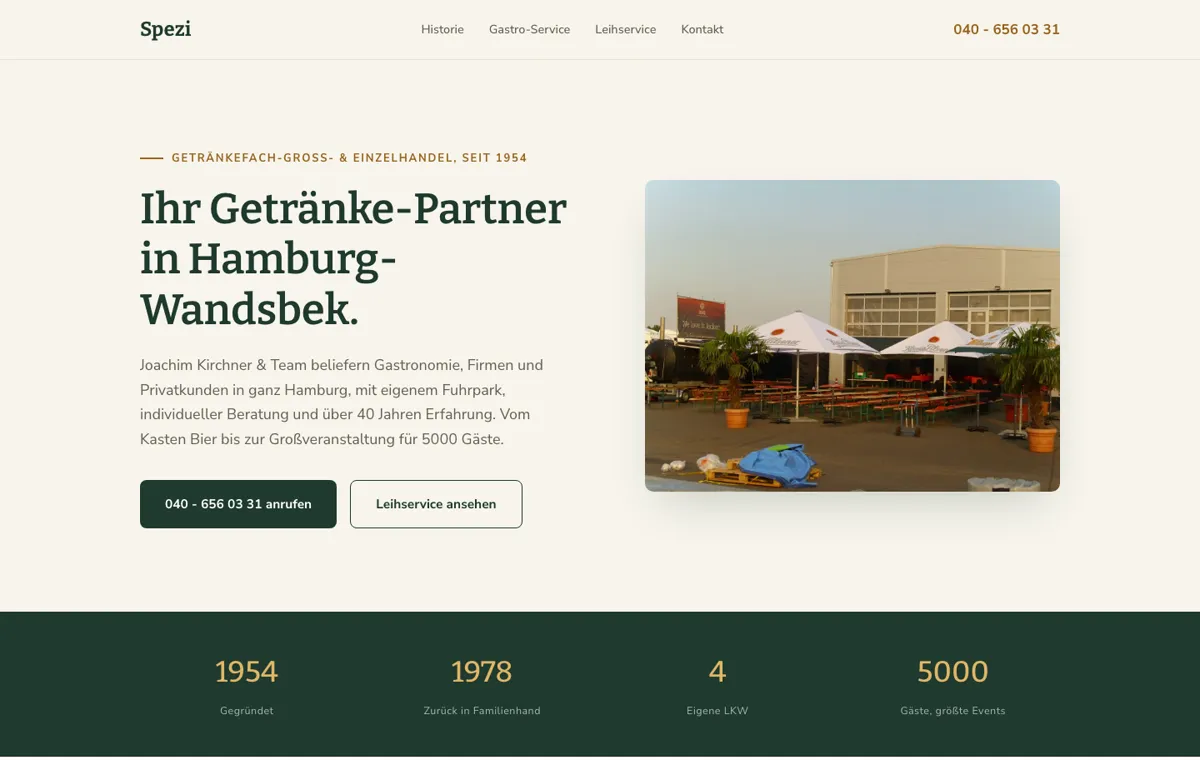
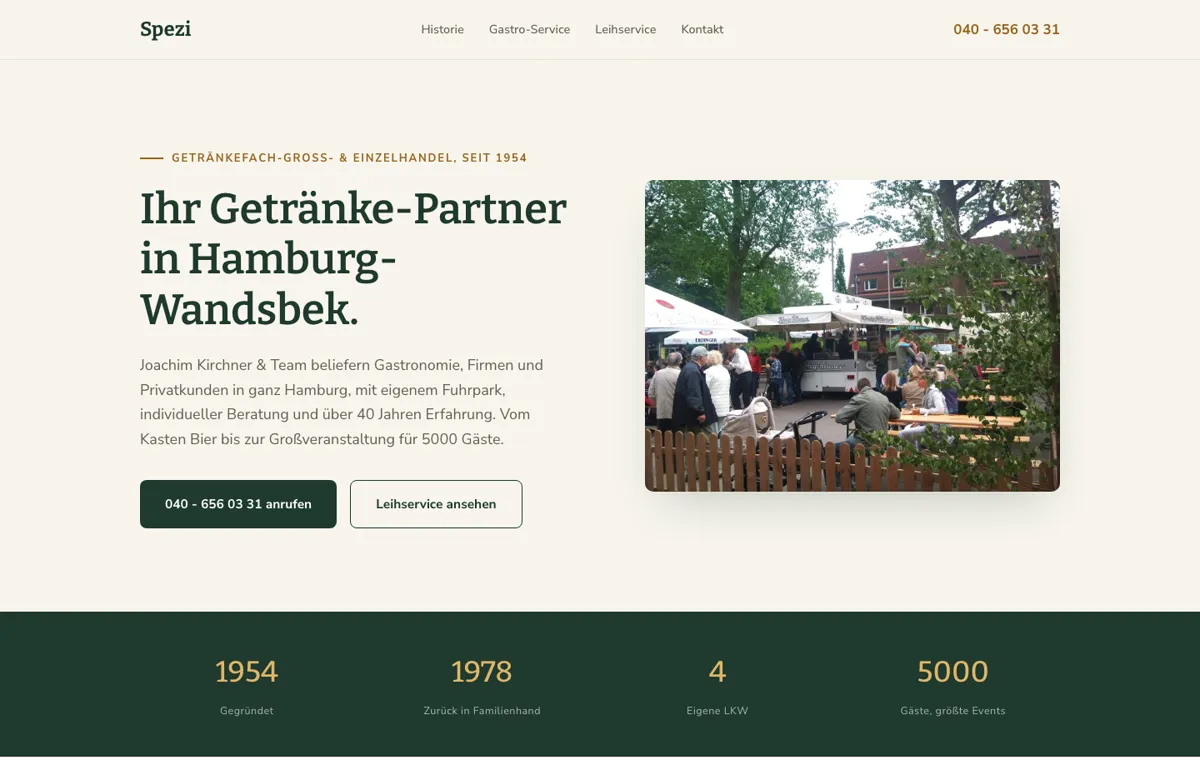
Replace three weak hero photos in the redesign mockups
Getränke Spezi led with an empty yard (blue tarp and litter in the foreground)
while a sharp 1400x1050 shot of its own beer wagon serving a street festival sat
unused. Die Möbelmacher led with a bland low-res table on a tiled floor, cable in
frame, upscaled 1.6x; it now shows the etched-glass salon door at native size in
a portrait frame, since every photo the firm publishes is under 350px. HTH's only
photo is a soft 424px scan, so it stops filling half the hero and instead sits at
native size above the six certifications that are the firm's real credibility,
which also removes the separate badge strip that repeated them.

Changed region(s): [[0.5242, 0.2118, 0.8942, 0.6658]]

diff --git a/public/redesign/hamburger-teehandel/index.html b/public/redesign/hamburger-teehandel/index.html
@@ -59,8 +59,18 @@ header .wrap{display:flex;align-items:center;justify-content:space-between;paddi
 .hero h1{font-size:clamp(2.1rem,4vw,3.2rem);margin:20px 0 22px}
 .hero p.lead{font-size:18px;color:var(--grau);margin-bottom:34px;max-width:520px}
 .hero-actions{display:flex;gap:16px;flex-wrap:wrap}
-.hero-photo{border-radius:10px;overflow:hidden;box-shadow:var(--schatten)}
-.hero-photo img{width:100%;height:auto;aspect-ratio:4/3;object-fit:cover}
+/* The only photo on file is a soft 424px scan, so it is shown at native size as
+   one element of a fact panel rather than blown up to fill half the hero. */
+.hero-panel{background:var(--karte);border:1px solid var(--linie);border-radius:14px;padding:22px;box-shadow:var(--schatten)}
+.hero-panel .shot{max-width:380px;margin:0 auto;border-radius:8px;overflow:hidden}
+.hero-panel .shot img{width:100%;height:auto;aspect-ratio:424/318;object-fit:cover}
+.hero-panel .cap{margin-top:11px;font-size:13px;color:var(--grau);text-align:center}
+.hero-zert{margin-top:20px;border-top:1px solid var(--linie);padding-top:18px}
+.hero-zert .t{font-size:11.5px;font-weight:700;letter-spacing:.11em;text-transform:uppercase;color:var(--grau);text-align:center;margin-bottom:14px}
+/* 3x2 grid, not flex-wrap: six logos of differing widths wrapped 5+1 and left
+   the last badge stranded on its own row */
+.hero-zert .row{display:grid;grid-template-columns:repeat(3,1fr);gap:20px 12px;align-items:center;justify-items:center}
+.hero-zert img{height:40px;width:auto;max-width:100%;filter:grayscale(.15)}
 @media (max-width:860px){.hero-grid{grid-template-columns:1fr}}
 
 .badges{background:var(--karte);border-top:1px solid var(--linie);border-bottom:1px solid var(--linie);padding:36px 0}
@@ -143,22 +153,25 @@ footer{background:var(--tee-dunkel);color:rgba(255,255,255,.72);padding:56px 0 3
         <a href="#qualitaet" class="btn btn-outline">Zertifizierungen ansehen</a>
       </div>
     </div>
-    <div class="hero-photo">
-      <img src="/redesign/hamburger-teehandel/assets/photos/teeplantage.webp" alt="Teeplantage in einem Anbaugebiet" width="424" height="318">
+    <div class="hero-panel">
+      <figure class="shot">
+        <img src="/redesign/hamburger-teehandel/assets/photos/teeplantage.webp" alt="Teeplantage in einem Anbaugebiet">
+      </figure>
+      <p class="cap">Anbaugebiet eines unserer Herkunftsländer</p>
+      <div class="hero-zert">
+        <div class="t">Zertifiziert nach</div>
+        <div class="row">
+          <img src="/redesign/hamburger-teehandel/assets/logos/ifs.webp" alt="IFS Broker Zertifikat">
+          <img src="/redesign/hamburger-teehandel/assets/logos/biosiegel.webp" alt="EU Bio Siegel">
+          <img src="/redesign/hamburger-teehandel/assets/logos/fairtrade.webp" alt="Fairtrade Zertifikat">
+          <img src="/redesign/hamburger-teehandel/assets/logos/usda.webp" alt="USDA Organic Zertifikat">
+          <img src="/redesign/hamburger-teehandel/assets/logos/spi.webp" alt="Specialty Tea Institute Zertifikat">
+          <img src="/redesign/hamburger-teehandel/assets/logos/dtkv.webp" alt="Deutscher Tee und Kraeutertee Verband">
+        </div>
+      </div>
     </div>
   </div>
 </section>
-
-<div class="badges">
-  <div class="wrap badges-grid">
-    <img src="/redesign/hamburger-teehandel/assets/logos/ifs.webp" alt="IFS Zertifikat" width="90" height="53">
-    <img src="/redesign/hamburger-teehandel/assets/logos/biosiegel.webp" alt="EU Bio Siegel" width="68" height="56">
-    <img src="/redesign/hamburger-teehandel/assets/logos/fairtrade.webp" alt="Fairtrade Zertifikat" width="55" height="56">
-    <img src="/redesign/hamburger-teehandel/assets/logos/usda.webp" alt="USDA Organic Zertifikat" width="56" height="56">
-    <img src="/redesign/hamburger-teehandel/assets/logos/spi.webp" alt="SPI Zertifikat" width="113" height="56">
-    <img src="/redesign/hamburger-teehandel/assets/logos/dtkv.webp" alt="DTKV Zertifikat" width="76" height="56">
-  </div>
-</div>
 
 <div class="zahlen">
   <div class="wrap zahlen-grid">

diff --git a/public/redesign/moebelmacher/index.html b/public/redesign/moebelmacher/index.html
@@ -59,8 +59,12 @@ header .wrap{display:flex;align-items:center;justify-content:space-between;paddi
 .hero h1{font-size:clamp(2.1rem,4vw,3.2rem);margin:20px 0 22px}
 .hero p.lead{font-size:18px;color:var(--grau);margin-bottom:34px;max-width:520px}
 .hero-actions{display:flex;gap:16px;flex-wrap:wrap}
-.hero-photo{border-radius:10px;overflow:hidden;box-shadow:var(--schatten)}
-.hero-photo img{width:100%;height:auto;aspect-ratio:4/3;object-fit:cover}
+/* Every photo on file is under 350px, so the hero shows one at close to its
+   native size in a portrait frame rather than upscaling a bland 4:3 crop. */
+.hero-photo{max-width:330px;margin:0 auto}
+.hero-photo .frame{border-radius:10px;overflow:hidden;box-shadow:var(--schatten);border:8px solid #fff}
+.hero-photo img{width:100%;height:auto;aspect-ratio:294/400;object-fit:cover}
+.hero-photo figcaption{margin-top:14px;font-size:13.5px;color:var(--grau);text-align:center}
 @media (max-width:860px){.hero-grid{grid-template-columns:1fr}}
 
 .zahlen{background:var(--tinte);color:#fff;padding:44px 0}
@@ -150,9 +154,12 @@ footer{background:var(--tinte);color:rgba(255,255,255,.72);padding:56px 0 32px;f
         <a href="#galerie" class="btn btn-outline">Arbeiten ansehen</a>
       </div>
     </div>
-    <div class="hero-photo">
-      <img src="/redesign/moebelmacher/assets/photos/ahorn-esstisch.webp" alt="Esstisch aus massivem Ahorn, gefertigt von Die Möbelmacher" width="305" height="320">
-    </div>
+    <figure class="hero-photo">
+      <div class="frame">
+        <img src="/redesign/moebelmacher/assets/photos/salontuer.webp" alt="Zweiflügelige Salontür mit geätzten Glasfüllungen, gefertigt von Die Möbelmacher">
+      </div>
+      <figcaption>Zweiflügelige Salontür mit geätzten Glasfüllungen</figcaption>
+    </figure>
   </div>
 </section>
 

diff --git a/public/redesign/getraenke-spezi/index.html b/public/redesign/getraenke-spezi/index.html
@@ -151,7 +151,7 @@ footer{background:var(--tanne);color:rgba(255,255,255,.72);padding:56px 0 32px;f
       </div>
     </div>
     <div class="hero-photo">
-      <img src="/redesign/getraenke-spezi/assets/photos/eventaufbau.webp" alt="Aufbau für eine Veranstaltung mit Biertischgarnituren und Sonnenschirmen" width="1400" height="1050">
+      <img src="/redesign/getraenke-spezi/assets/photos/bierwagen-fest.webp" alt="Bierwagen von Getränke Spezi im Einsatz auf einem Straßenfest, mit Biertischgarnituren und Schankwagen" width="1400" height="1050">
     </div>
   </div>
 </section>
